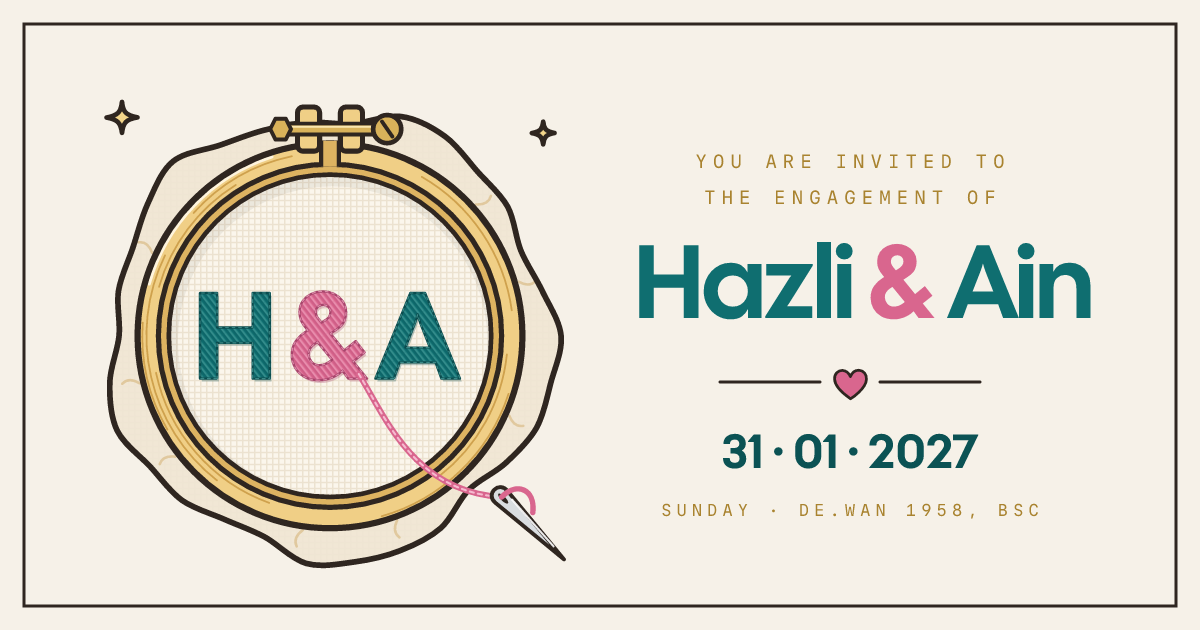
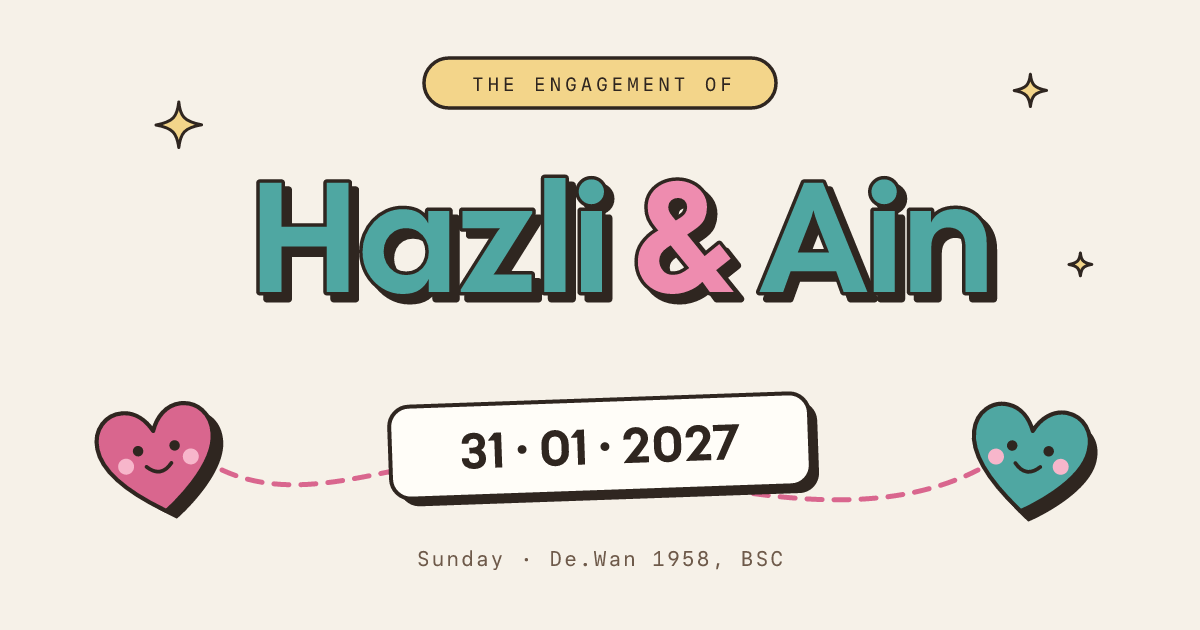
Redraw the link preview as a light soft-brutalist illustration
The names are outlined stickers with a hard shadow, over a tilted date card and two heart pals holding the pink thread. The hoop mark and frame are gone from the preview; the icons still use the hoop.

diff --git a/scripts/og.tsx b/scripts/og.tsx
@@ -1,15 +1,19 @@
 import type { ReactNode } from "react";
 import { renderToStaticMarkup } from "react-dom/server";
-import { HEART } from "../src/components/Doodles";
+import { HEART, SPARKLE } from "../src/components/Doodles";
 import { HoopMark } from "../src/logo/HoopMark";
 import { EVENT } from "../src/event";
 export { icsText } from "../src/lib/calendar";
 
 const PAPER = "#F6F1E8";
+const CARD = "#FFFDF8";
 const INK = "#2F2620";
-const TEAL = "#0F6E70";
+const INK_2 = "#6E5A4A";
+/** The site's teal and pink, lightened so the names stay friendly inside their ink outline. */
+const TEAL_LIGHT = "#4FA7A2";
+const PINK_LIGHT = "#EE8CAF";
 const PINK = "#D9668E";
-const GOLD = "#A9832F";
+const GOLD_LIGHT = "#F3D58A";
 
 /** Renders SVG children inside an <svg> so React treats them as SVG, then returns only the inner markup. */
 function inner(node: ReactNode): string {
@@ -21,37 +25,85 @@ function hoopAt(x: number, y: number, size: number, variant: "full" | "icon"): s
   return `<g transform="translate(${x},${y})">${renderToStaticMarkup(<HoopMark size={size} variant={variant} />)}</g>`;
 }
 
+/** A heart with a face: ink outline, a hard shadow, two eyes, a smile and a blush. Drawn on the heart's own 37 x 35 board. */
+function HeartPal({ x, y, tilt, fill, blush }: { x: number; y: number; tilt: number; fill: string; blush: string }) {
+  return (
+    <g transform={`translate(${x} ${y}) rotate(${tilt} 71 63) scale(4.2)`}>
+      <path d={HEART} transform="translate(2.2 2.2)" fill={INK} />
+      <path d={HEART} fill={fill} stroke={INK} strokeWidth={1} strokeLinejoin="round" />
+      <circle cx={9.2} cy={16.6} r={1.9} fill={blush} />
+      <circle cx={24.8} cy={16.6} r={1.9} fill={blush} />
+      <circle cx={12.6} cy={13.4} r={1.25} fill={INK} />
+      <circle cx={21.4} cy={13.4} r={1.25} fill={INK} />
+      <path d="M14 17.4Q17 20.6 20 17.4" fill="none" stroke={INK} strokeWidth={0.9} strokeLinecap="round" />
+    </g>
+  );
+}
+
+function Spark({ x, y, scale }: { x: number; y: number; scale: number }) {
+  return (
+    <path d={SPARKLE} transform={`translate(${x} ${y}) scale(${scale})`} fill={GOLD_LIGHT} stroke={INK} strokeWidth={3 / scale} strokeLinejoin="round" />
+  );
+}
+
+/**
+ * The link preview, in the page's soft-brutalist drawing style: ink outlines, hard shadows, and two
+ * heart pals holding the pink thread. Chat apps show it small, so the names carry it.
+ */
 export function ogImage(): string {
-  const right = inner(
+  const names = (
+    <>
+      {EVENT.couple.first.short}
+      <tspan fill="inherit" dx={22}>
+        &amp;
+      </tspan>
+      <tspan dx={22}>{EVENT.couple.second.short}</tspan>
+    </>
+  );
+  const art = inner(
     <g textAnchor="middle">
-      <text x={850} y={168} fontFamily="Paper Mono" fontWeight={500} fontSize={19} letterSpacing={6} fill={GOLD}>
-        YOU ARE INVITED TO
-      </text>
-      <text x={850} y={204} fontFamily="Paper Mono" fontWeight={500} fontSize={19} letterSpacing={6} fill={GOLD}>
+      <Spark x={150} y={96} scale={2.4} />
+      <Spark x={1010} y={70} scale={1.7} />
+      <Spark x={1066} y={250} scale={1.2} />
+
+      <rect x={424} y={58} width={352} height={50} rx={25} fill={GOLD_LIGHT} stroke={INK} strokeWidth={3.5} />
+      <text x={602} y={91} fontFamily="Paper Mono" fontWeight={500} fontSize={19} letterSpacing={4} fill={INK}>
         THE ENGAGEMENT OF
       </text>
-      <text x={850} y={318} fontFamily="Cal Sans" fontSize={104} letterSpacing={-2} fill={TEAL}>
-        {EVENT.couple.first.short}
-        <tspan fill={PINK} dx={14}>
-          &amp;
-        </tspan>
-        <tspan dx={14}>{EVENT.couple.second.short}</tspan>
-      </text>
-      <path d="M720 382H820M880 382H980" stroke={INK} strokeWidth={3} strokeLinecap="round" />
-      <path d={HEART} transform="translate(831 366) scale(1.15)" fill={PINK} stroke={INK} strokeWidth={2.4} strokeLinejoin="round" />
-      <text x={850} y={468} fontFamily="Cal Sans" fontSize={48} letterSpacing={1} fill="#0B5254">
-        {EVENT.dateShort}
-      </text>
-      <text x={850} y={516} fontFamily="Paper Mono" fontWeight={500} fontSize={17} letterSpacing={5} fill={GOLD}>
-        {`${EVENT.weekday} · ${EVENT.venue.label}`.toUpperCase()}
+
+      {/* The names as a sticker: an ink shadow, then the letters with an ink edge. */}
+      <g fontFamily="Cal Sans" fontSize={156} letterSpacing={3}>
+        <text x={607} y={299} fill={INK} stroke={INK} strokeWidth={7} strokeLinejoin="round">
+          {names}
+        </text>
+        <text x={600} y={292} fill={TEAL_LIGHT} stroke={INK} strokeWidth={7} strokeLinejoin="round" paintOrder="stroke">
+          {EVENT.couple.first.short}
+          <tspan fill={PINK_LIGHT} dx={22}>
+            &amp;
+          </tspan>
+          <tspan dx={22}>{EVENT.couple.second.short}</tspan>
+        </text>
+      </g>
+
+      <path d="M222 470C330 520 450 424 600 462S880 520 978 470" fill="none" stroke={PINK} strokeWidth={5} strokeLinecap="round" strokeDasharray="15 12" />
+      <HeartPal x={86} y={392} tilt={-9} fill={PINK} blush="#F7B6CB" />
+      <HeartPal x={958} y={392} tilt={9} fill={TEAL_LIGHT} blush="#F7B6CB" />
+
+      <g transform="rotate(-2 600 446)">
+        <rect x={398} y={408} width={420} height={92} rx={20} fill={INK} />
+        <rect x={390} y={400} width={420} height={92} rx={20} fill={CARD} stroke={INK} strokeWidth={4} />
+        <text x={600} y={464} fontFamily="Cal Sans" fontSize={50} letterSpacing={2} fill={INK}>
+          {EVENT.dateShort}
+        </text>
+      </g>
+      <text x={600} y={566} fontFamily="Paper Mono" fontWeight={500} fontSize={21} letterSpacing={2} fill={INK_2}>
+        {`${EVENT.weekday} · ${EVENT.venue.label}`}
       </text>
     </g>,
   );
   return `<svg xmlns="http://www.w3.org/2000/svg" width="1200" height="630" viewBox="0 0 1200 630">
 <rect width="1200" height="630" fill="${PAPER}"/>
-<rect x="24" y="24" width="1152" height="582" fill="none" stroke="${INK}" stroke-width="3"/>
-${hoopAt(70, 55, 520, "full")}
-${right}
+${art}
 </svg>`;
 }
 
